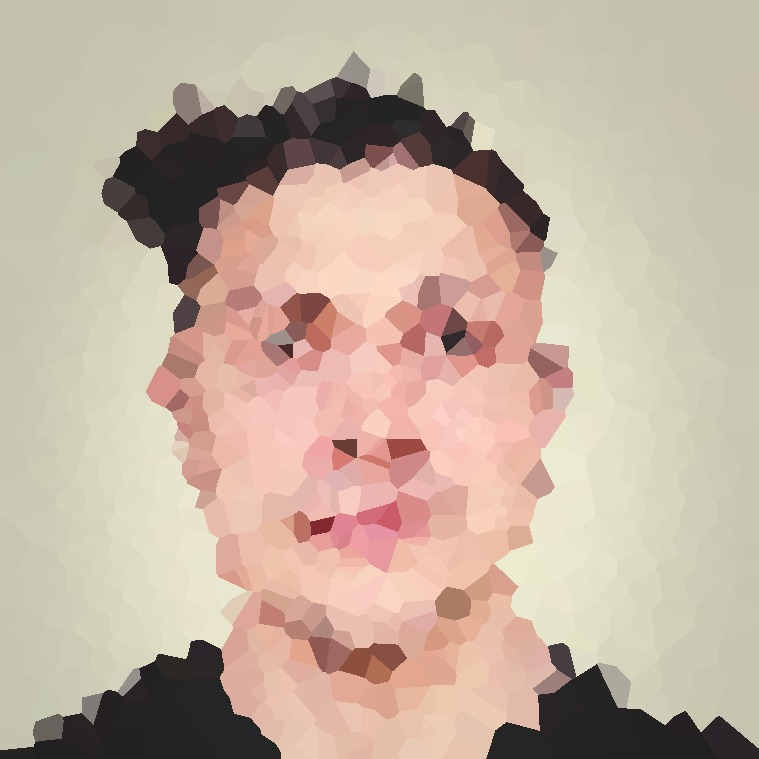
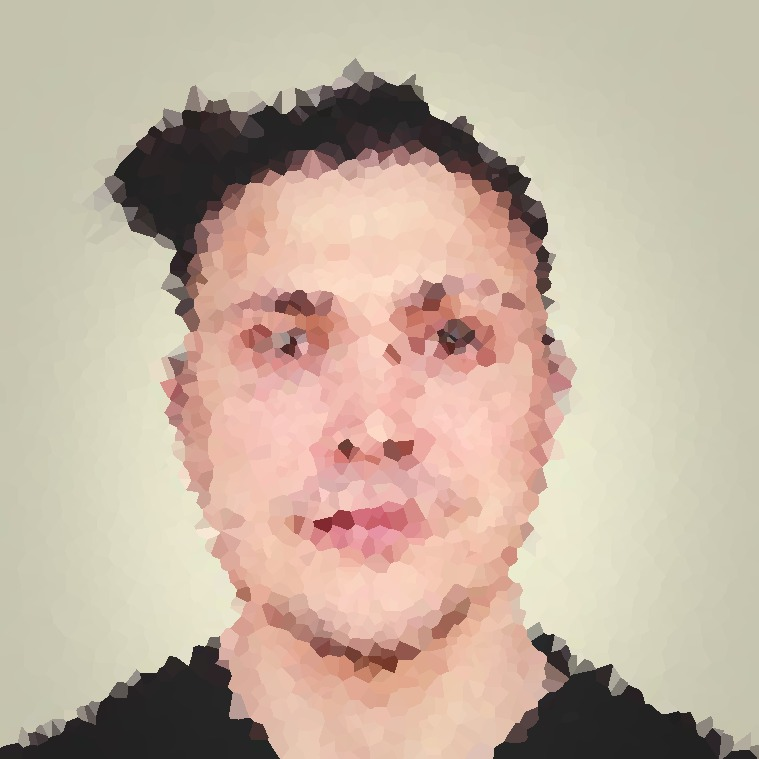
changed profile pic.

diff --git a/index.md b/index.md
@@ -6,7 +6,7 @@
 
 <p>&nbsp;</p>
 
-<center> <img src="2024-Venkovic-mosaic-headshot.jpeg" alt="Nicolas Venkovic" title="Nicolas Venkovic" width="18%"/></center>
+<center> <img src="2024-Venkovic-mosaic-headshot.jpeg" alt="Nicolas Venkovic" title="Nicolas Venkovic" width="19%"/></center>
 
 <p>&nbsp;</p>
 
